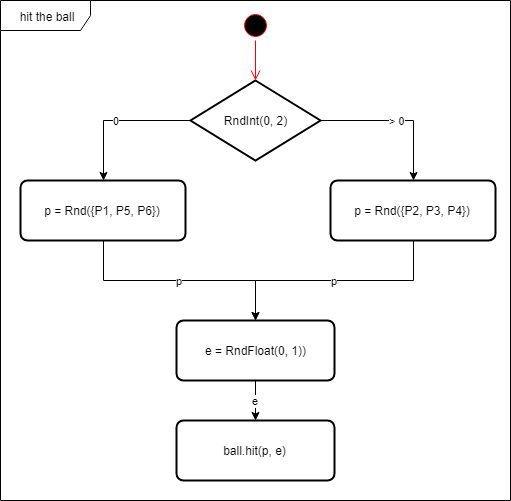
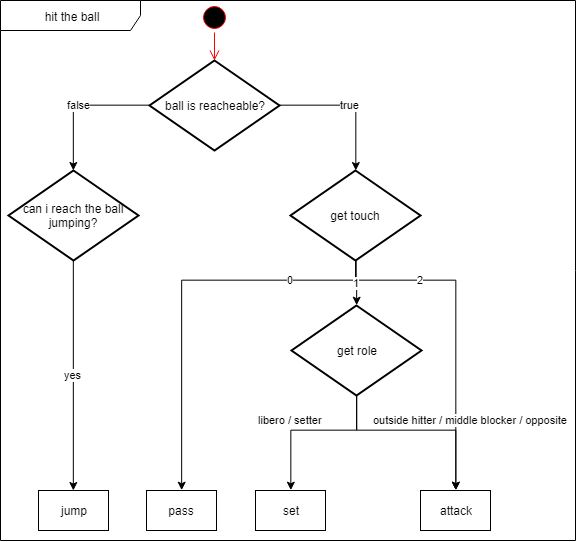
DT + BT vagamente funzionanti

diff --git a/Project/Folie/Player.cpp b/Project/Folie/Player.cpp
@@ -18,87 +18,6 @@ Folie::Player::Player()
 	create_DT_hitTheBall();
 }
 
-//Folie::Player::Player()
-//{
-//	waiter = gcnew CoroutineQueue();
-//
-//	BT_rally = gcnew AI::BT();
-//	auto DT_Serving = gcnew AI::BT<bool>(gcnew Func<bool>(this, &Player::Serving));
-//
-//	auto DT_lookAtTarget = gcnew AI::BT<System::Object^>(gcnew Action(this, &Player::lookAtTarget));
-//	auto DT_ballIsFlying = gcnew AI::BT<bool>(gcnew Func<bool>(this, &Player::ballIsFlying));
-//	auto DT_lookAtTheBall = gcnew AI::BT<System::Object^>(gcnew Action<bool>(this, &Player::lookAtTheBall), true);
-//	auto DT_DontLookAtTheBall = gcnew AI::BT<System::Object^>(gcnew Action<bool>(this, &Player::lookAtTheBall), false);
-//
-//	auto DT_EnableAgent = gcnew AI::BT<System::Object^>(gcnew Action(this, &Player::EnableAgent));
-//
-//	auto DT_getGamePhase = gcnew AI::BT<Enums::eGamePhase>(gcnew Func<Enums::eGamePhase>(this, &Player::getGamePhase));
-//	auto DT_playerTakePositionInReception = gcnew AI::BT<System::Object^>(gcnew Action(this, &Player::playerTakePositionInReception));
-//
-//	auto DT_startAttackMode = gcnew AI::BT<System::Object^>();
-//	auto DT_ballIsReacheable = gcnew AI::BT<bool>(gcnew Func<bool>(this, &Player::ballIsReacheable));
-//	auto DT_getTouch = gcnew AI::BT<UInt16>(gcnew Func<UInt16>(this, &Player::getTouch));
-//
-//	auto DT_getRole = gcnew AI::BT<Enums::eRole>(gcnew Func<Enums::eRole>(this, &Player::getRole));
-//
-//	auto DT_pass = gcnew AI::BT<System::Object^>(gcnew Action(this, &Player::pass_));
-//	auto DT_set = gcnew AI::BT<System::Object^>(gcnew Action(this, &Player::set_));
-//	auto DT_attack = gcnew AI::BT<System::Object^>(gcnew Action(this, &Player::attack));
-//
-//	auto DT_ballOfNoOne = gcnew AI::BT<System::Object^>(gcnew Action(this, &Player::ballOfNoOne));
-//
-//	auto DT_canIReachTheBallJumping = gcnew AI::BT<bool>(gcnew Func<bool>(this, &Player::canIReachTheBallJumping));
-//	auto DT_setJumping = gcnew AI::BT<System::Object^>(gcnew Action<bool>(this, &Player::setJumping), true);
-//
-//	auto DT_isBallInMyArea = gcnew AI::BT<bool>(gcnew Func<bool>(this, &Player::isBallInMyArea));
-//	auto DT_takeCorrectPositionInAttackMode = gcnew AI::BT<System::Object^>(gcnew Action(this, &Player::takeCorrectPositionInAttackMode));
-//	auto DT_takeCorrectPositionPreAttack = gcnew AI::BT<System::Object^>(gcnew Action(this, &Player::takeCorrectPositionPreAttack));
-//
-//
-//	BT_rally->sequentialEndActions->AddLast(DT_Serving);
-//	BT_rally->sequentialEndActions->AddLast(DT_lookAtTarget);
-//	DT_Serving->chanches->Add(true, DT_ballIsFlying);
-//
-//	DT_ballIsFlying->chanches->Add(true, DT_lookAtTheBall);
-//	DT_ballIsFlying->chanches->Add(false, DT_DontLookAtTheBall);
-//
-//	DT_DontLookAtTheBall->sequentialEndActions->AddLast(DT_EnableAgent);
-//	DT_lookAtTheBall->sequentialEndActions->AddLast(DT_getGamePhase);
-//
-//	DT_getGamePhase->chanches->Add(Enums::eGamePhase::defence, DT_playerTakePositionInReception);
-//	DT_getGamePhase->negateChanches->Add(Enums::eGamePhase::defence, DT_startAttackMode);
-//
-//
-//	DT_startAttackMode->sequentialEndActions->AddLast(DT_ballIsReacheable);
-//
-//	DT_ballIsReacheable->chanches->Add(true, DT_getTouch);
-//	DT_ballIsReacheable->chanches->Add(false, DT_canIReachTheBallJumping);
-//
-//
-//	DT_getTouch->chanches->Add(0, DT_pass);
-//	DT_getTouch->chanches->Add(1, DT_getRole);
-//	DT_getTouch->chanches->Add(2, DT_attack);
-//
-//	DT_pass->sequentialEndActions->AddLast(DT_ballOfNoOne);
-//	DT_set->sequentialEndActions->AddLast(DT_ballOfNoOne);
-//	DT_attack->sequentialEndActions->AddLast(DT_ballOfNoOne);
-//
-//	DT_getRole->chanches->Add(Enums::eRole::Libero, DT_set);
-//	DT_getRole->chanches->Add(Enums::eRole::Setter, DT_set);
-//
-//	DT_getRole->chanches->Add(Enums::eRole::OutsideHitter, DT_attack);
-//	DT_getRole->chanches->Add(Enums::eRole::MiddleBlocker, DT_attack);
-//	DT_getRole->chanches->Add(Enums::eRole::Opposite, DT_attack);
-//
-//
-//	DT_canIReachTheBallJumping->chanches->Add(true, DT_setJumping);
-//	DT_canIReachTheBallJumping->chanches->Add(false, DT_isBallInMyArea);
-//
-//	DT_isBallInMyArea->chanches->Add(true, DT_takeCorrectPositionInAttackMode);
-//	DT_isBallInMyArea->chanches->Add(false, DT_takeCorrectPositionPreAttack);
-//}
-
-
 // Unity
 void Folie::Player::Start()
 {
@@ -121,51 +40,83 @@ void Folie::Player::Update()
 	BT_rally->Execute();
 }
 
+
 void Folie::Player::create_BT_Rally()
 {
 	auto q1 = gcnew AI::BTSelector();
-	auto q4 = gcnew AI::BTSelector();
+	auto q3 = gcnew AI::BTSelector();
+	auto q6 = gcnew AI::BTSelector();
 
 	auto s2 = gcnew AI::BTSequence();
-	auto s3 = gcnew AI::BTSequence();
 	auto s4 = gcnew AI::BTSequence();
 	auto s5 = gcnew AI::BTSequence();
+	auto s6 = gcnew AI::BTSequence();
+	auto s7 = gcnew AI::BTSequence();
 
 
 	BT_rally = gcnew AI::BT(q1);
 
-	q1->childrens->AddLast(s2);
-	q1->childrens->AddLast(gcnew AI::BTAction<Object^>(gcnew Action(this, &Player::lookAtTarget)));
+	q1->AddChildren(s2);
+	q1->AddChildren(gcnew AI::BTAction(gcnew Action(this, &Player::lookAtTarget)));
 
-	s2->childrens->AddLast(gcnew AI::BTQuestion(gcnew Func<bool>(this, &Player::Serving)));
-	s2->childrens->AddLast(gcnew AI::BTAction<bool>(gcnew Action<bool>(this, &Player::lookAtTheBall), true));
-	s2->childrens->AddLast(s3);
+	s2->AddChildren(gcnew AI::BTQuestion(gcnew Func<bool>(this, &Player::Served)));
+	s2->AddChildren(q3);
 
-	s3->childrens->AddLast(q4);
-	s3->childrens->AddLast(s4);
 
-	q4->childrens->AddLast(gcnew AI::BTQuestion(gcnew Func<bool>(this, &Player::isBallInMyCourt)));
-	q4->childrens->AddLast(s5);
+	s4->AddChildren(gcnew AI::BTAction(gcnew Func<bool>(this, &Player::ballIsFlying)));
+	s4->AddChildren(gcnew AI::BTAction(gcnew Action<bool>(this, &Player::lookAtTheBall), true));
+	s4->AddChildren(s5);
 
-	s4->childrens->AddLast(gcnew AI::BTQuestion(gcnew Func<bool>(this, &Player::isBallInMyArea)));
-	s4->childrens->AddLast(gcnew AI::BTAction<Object^>(gcnew Action(this, &Player::takeCorrectPositionPreAttack)));
-	s4->childrens->AddLast(gcnew AI::BTAction<Object^>(gcnew Action(this, &Player::hitTheBall)));
+	s5->AddChildren(q6);
+	s5->AddChildren(s6);
 
-	s5->childrens->AddLast(gcnew AI::BTAction<Object^>(gcnew Action(this, &Player::playerTakePositionInReception)));
-	s5->childrens->AddLast(gcnew AI::BTQuestion(gcnew Func<bool>(this, &Player::imInFrontCourt)));
-	//s5->childrens->AddLast(gcnew AI::BTAction<Object^>(gcnew Action(this, &Player::block))); //to test
+	q6->AddChildren(gcnew AI::BTQuestion(gcnew Func<bool>(this, &Player::isBallInMyCourt)));
+	q6->AddChildren(s7);
+
+	s6->AddChildren(gcnew AI::BTQuestion(gcnew Func<bool>(this, &Player::isBallInMyArea)));
+	s6->AddChildren(gcnew AI::BTAction(gcnew Action(this, &Player::takeCorrectPositionPreAttack)));
+	s6->AddChildren(gcnew AI::BTAction(gcnew Action(this, &Player::hitTheBall)));
+
+	s7->AddChildren(gcnew AI::BTAction(gcnew Action(this, &Player::playerTakePositionInReception)));
+	s7->AddChildren(gcnew AI::BTQuestion(gcnew Func<bool>(this, &Player::imInFrontCourt)));
+	//s7->childrens->AddLast(gcnew AI::BTAction(gcnew Action(this, &Player::block))); //to test
 }
 
 void Folie::Player::create_DT_hitTheBall()
 {
-	throw gcnew System::NotImplementedException();
+	auto DT_hitTheBall = gcnew AI::DT<bool>(gcnew Func<bool>(this, &Player::ballIsReacheable));
+	auto DT_getTouch = gcnew AI::DT<UInt16>(gcnew Func<UInt16>(this, &Player::getTouch));
+
+	auto DT_getRole = gcnew AI::DT<Enums::eRole>(gcnew Func<Enums::eRole>(this, &Player::getRole));
+
+	auto DT_pass = gcnew AI::DT<System::Object^>(gcnew Action(this, &Player::pass_));
+	auto DT_set = gcnew AI::DT<System::Object^>(gcnew Action(this, &Player::set_));
+	auto DT_attack = gcnew AI::DT<System::Object^>(gcnew Action(this, &Player::attack));
+
+	auto DT_canIReachTheBallJumping = gcnew AI::DT<bool>(gcnew Func<bool>(this, &Player::canIReachTheBallJumping));
+	auto DT_setJumping = gcnew AI::DT<System::Object^>(gcnew Action<bool>(this, &Player::setJumping), true);
+
+	DT_hitTheBall->addDecision(true, DT_getTouch);
+	DT_hitTheBall->addDecision(false, DT_canIReachTheBallJumping);
+
+	DT_getTouch->addDecision(0, DT_pass);
+	DT_getTouch->addDecision(1, DT_getRole);
+	DT_getTouch->addDecision(2, DT_attack);
+
+	DT_getRole->addDecision(Enums::eRole::Libero, DT_set);
+	DT_getRole->addDecision(Enums::eRole::Setter, DT_set);
+
+	DT_getRole->addDecision(Enums::eRole::OutsideHitter, DT_attack);
+	DT_getRole->addDecision(Enums::eRole::MiddleBlocker, DT_attack);
+	DT_getRole->addDecision(Enums::eRole::Opposite, DT_attack);
+
+	DT_canIReachTheBallJumping->addDecision(true, DT_setJumping);
 }
 
 void Folie::Player::hitTheBall()
 {
-	
+	DT_hitTheBall->Execute();
 }
-
 
 bool Folie::Player::ballIsFlying()
 {
@@ -211,7 +162,7 @@ bool Folie::Player::ballIsReacheable()
 	return getDistanceFromBall() < Enums::min_distance_to_hit && canTouchTheBall();
 }
 
-bool Folie::Player::Serving()
+bool Folie::Player::Served()
 {
 	return (REF::ball != nullptr && phase != Enums::ePhase::serve);
 }

diff --git a/Project/Folie/AI/DT.hpp b/Project/Folie/AI/DT.hpp
@@ -1,0 +1,76 @@
+/*
+MIT License
+
+Copyright (c) 2019 Michele Maione
+
+Permission is hereby granted, free of charge, toE any person obtaining a copy of this software and associated documentation files (the "Software"), toE deal in the Software without restriction, including without limitation the rights toE use, copy, modify, merge, publish, distribute, sublicense, and/or sell copies of the Software, and toE permit persons toE whom the Software is furnished toE do so, subject toE the following conditions: The above copyright notice and this permission notice shall be included in all copies or substantial portions of the Software.
+THE SOFTWARE IS PROVIDED "AS IS", WITHOUT WARRANTY OF ANY KIND, EXPRESS OR IMPLIED, INCLUDING BUT NOT LIMITED TO THE WARRANTIES OF MERCHANTABILITY, FITNESS FOR A PARTICULAR PURPOSE AND NONINFRINGEMENT. IN NO EVENT SHALL THE AUTHORS OR COPYRIGHT HOLDERS BE LIABLE FOR ANY CLAIM, DAMAGES OR OTHER LIABILITY, WHETHER IN AN ACTION OF CONTRACT, TORT OR OTHERWISE, ARISING FROM, OUT OF OR IN CONNECTION WITH THE SOFTWARE OR THE USE OR OTHER DEALINGS IN THE SOFTWARE.
+*/
+#pragma once
+
+using namespace System;
+using namespace System::Collections::Generic;
+
+namespace Folie
+{
+	namespace AI
+	{
+		interface class IDTNode
+		{
+			void Execute();
+		};
+
+		generic <class T> ref class DT :IDTNode
+		{
+		private:
+			Dictionary<T, IDTNode^> ^decisions, ^notDecisions;
+
+			Delegate ^test;
+			array<Object^> ^testParams;
+
+		public:
+			DT()
+			{
+				this->notDecisions = gcnew Dictionary<T, IDTNode^>();
+				this->decisions = gcnew Dictionary<T, IDTNode^>();
+			}
+
+			DT(Delegate ^test) :DT()
+			{
+				this->test = test;
+			}
+
+			DT(Delegate ^test, Object ^testParam) :DT(test)
+			{
+				this->testParams = gcnew array<Object^> {testParam};
+			}
+
+			void addDecision(T val, IDTNode ^n)
+			{
+				decisions->Add(val, n);
+			}
+
+			void addNotDecisions(T val, IDTNode ^n)
+			{
+				notDecisions->Add(val, n);
+			}
+
+			virtual void Execute()
+			{
+				auto result = (test == nullptr ? nullptr : test->DynamicInvoke(testParams));
+
+				if (result != nullptr)
+				{
+					auto r = (T)result;
+
+					if (decisions->ContainsKey(r))
+						decisions[r]->Execute();
+					else
+						for each (auto k in notDecisions->Keys)
+							if (!r->Equals(k))
+								notDecisions[k]->Execute();
+				}
+			}
+		};
+	}
+}

diff --git a/Project/Folie/AI/BT.hpp b/Project/Folie/AI/BT.hpp
@@ -23,7 +23,7 @@ namespace Folie
 
 		ref class BTQuestion :IBTNode
 		{
-		public:
+		private:
 			Delegate ^boolFN;
 			array<Object^> ^params;
 
@@ -39,11 +39,11 @@ namespace Folie
 			}
 		};
 
-		generic <class T> ref class BTAction:IBTNode
+		ref class BTAction :IBTNode
 		{
-		public:
+		private:
 			Delegate ^action;
-			array<T> ^params;
+			array<Object^> ^params;
 
 		public:
 			BTAction(Delegate ^action)
@@ -51,9 +51,9 @@ namespace Folie
 				this->action = action;
 			}
 
-			BTAction(Delegate ^action, T param):BTAction(action)
-			{				
-				this->params = gcnew array<T>{param};
+			BTAction(Delegate ^action, Object ^param) :BTAction(action)
+			{
+				this->params = gcnew array<Object^>{param};
 			}
 
 			virtual bool Execute()
@@ -64,9 +64,13 @@ namespace Folie
 			}
 		};
 
-		generic <class T> ref class BTInverter :BTAction<T>
+		ref class BTInverter :BTAction
 		{
 		public:
+			BTInverter(Delegate ^action) : BTAction(action) {}
+
+			BTInverter(Delegate ^action, Object ^param) :BTAction(action, param) {}
+
 			virtual bool Execute() override
 			{
 				return !BTAction::Execute();
@@ -76,9 +80,19 @@ namespace Folie
 
 		ref class BTComposite abstract :IBTNode
 		{
-		public:
+		protected:
 			LinkedList<IBTNode^> ^childrens;
 		public:
+			BTComposite()
+			{
+				this->childrens = gcnew LinkedList<IBTNode^>();
+			}
+
+			void AddChildren(IBTNode ^n)
+			{
+				childrens->AddLast(n);
+			}
+
 			virtual bool Execute() abstract;
 		};
 
@@ -111,7 +125,7 @@ namespace Folie
 
 		ref class BT :IBTNode
 		{
-		public:
+		private:
 			IBTNode ^node;
 
 		public:
@@ -122,8 +136,8 @@ namespace Folie
 
 			virtual bool Execute()
 			{
-				node->Execute();
-			}			
+				return node->Execute();
+			}
 		};
 	}
 }

diff --git a/Project/Folie/Player.hpp b/Project/Folie/Player.hpp
@@ -11,6 +11,7 @@ THE SOFTWARE IS PROVIDED "AS IS", WITHOUT WARRANTY OF ANY KIND, EXPRESS OR IMPLI
 #include "GB.hpp"
 #include "Ball.hpp"
 #include "AI/BT.hpp"
+#include "AI/DT.hpp"
 
 #using <UnityEngine.AIModule.dll> as_friend
 
@@ -24,6 +25,7 @@ namespace Folie
 	{
 	private:
 		AI::BT ^BT_rally;
+		AI::DT<System::Object^> ^DT_hitTheBall;
 
 		bool jumping;
 
@@ -118,7 +120,7 @@ namespace Folie
 		bool canIReachTheBallJumping();
 		bool ballIsReacheable();
 
-		bool Serving();
+		bool Served();
 
 		void lookAtTarget();
 		void EnableAgent();
